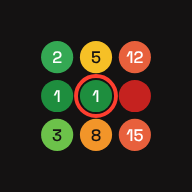
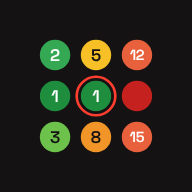
v0.40.1: icona rifatta da geometria (pallini uguali e centrati, anello concentrico con spazio regolare), generatore in strumenti/genera-icone.py
Claude-Session: https://claude.ai/code/session_01DCHnG7iKefnJzXE8xmSRnU

diff --git a/index.html b/index.html
@@ -10,9 +10,9 @@
 <meta name="apple-mobile-web-app-title" content="Visibilità">
 <title>Visibilità locale</title>
 <link rel="manifest" href="manifest.webmanifest">
-<link rel="icon" href="icon-192.png?v=5">
-<link rel="apple-touch-icon" href="apple-touch-icon.png?v=5">
-<link rel="stylesheet" href="stile.css?v=0.40.0">
+<link rel="icon" href="icon-192.png?v=6">
+<link rel="apple-touch-icon" href="apple-touch-icon.png?v=6">
+<link rel="stylesheet" href="stile.css?v=0.40.1">
 </head>
 <body>
 <!-- splash di avvio: logotipo AGENTICA negativo (brand book v2: barra fluo, lettere avorio) su nero; non blocca i tocchi -->
@@ -24,7 +24,7 @@
 </header>
 <main id="vista" class="vista"></main>
 <nav class="tab">
-  <div class="tab-brand"><img class="logo" src="icon-192.png?v=5" alt=""><span>Visibilità locale</span></div>
+  <div class="tab-brand"><img class="logo" src="icon-192.png?v=6" alt=""><span>Visibilità locale</span></div>
   <a href="#oggi" data-t="oggi"><svg viewBox="0 0 24 24"><path d="M4 6h16M4 12h16M4 18h10"/></svg>Oggi<span class="tab-n tab-n-neg" id="nOggi"></span></a>
   <a href="#prospect" data-t="prospect"><svg viewBox="0 0 24 24"><circle cx="9" cy="8" r="3.5"/><path d="M2.5 20c.8-3.6 3.4-5.5 6.5-5.5s5.7 1.9 6.5 5.5M16 4.8a3.5 3.5 0 0 1 0 6.4M18.5 14.8c1.6.8 2.7 2.5 3 5.2"/></svg>Prospect<span class="tab-n" id="nProspect"></span></a>
   <a href="#giro" data-t="giro"><svg viewBox="0 0 24 24"><path d="M12 21s-6.5-5.6-6.5-11a6.5 6.5 0 0 1 13 0c0 5.4-6.5 11-6.5 11z"/><circle cx="12" cy="10" r="2.3"/></svg>Giro</a>
@@ -39,7 +39,7 @@
 <div class="destra-vuota" aria-hidden="true"><span class="dv-p">Scegli un prospect dall'elenco: la scheda si apre qui.</span><span class="dv-z">Scegli una zona dall'elenco: il dettaglio si apre qui.</span></div>
 <div id="foglio" class="foglio" hidden></div>
 <div id="toast" class="toast" hidden></div>
-<script src="logica.js?v=0.40.0"></script>
-<script src="app.js?v=0.40.0"></script>
+<script src="logica.js?v=0.40.1"></script>
+<script src="app.js?v=0.40.1"></script>
 </body>
 </html>

diff --git a/sw.js b/sw.js
@@ -1,5 +1,5 @@
 // Cache dell'app per l'uso offline. I dati (api.github.com) non passano mai da qui.
-const CACHE = 'vl-0.40.0';
+const CACHE = 'vl-0.40.1';
 const FILE = ['./', 'index.html', 'stile.css', 'app.js', 'logica.js', 'manifest.webmanifest', 'icon-192.png', 'icon-512.png', 'apple-touch-icon.png',
   'marchio/agentica-simbolo-piccolo-positivo.svg',
   'fonti/dm-mono-latin-400-normal.woff2', 'fonti/dm-mono-latin-500-normal.woff2', 'fonti/instrument-sans-latin-400-normal.woff2', 'fonti/instrument-sans-latin-500-normal.woff2', 'fonti/instrument-sans-latin-600-normal.woff2', 'fonti/space-grotesk-latin-500-normal.woff2', 'fonti/space-grotesk-latin-600-normal.woff2'];

diff --git a/app.js b/app.js
@@ -1,7 +1,7 @@
 /* Visibilità locale: gestione prospect, giro e stampe. Dati in un repository GitHub privato,
    copia locale in IndexedDB per lavorare offline. Nessun dato vive nel repository dell'app. */
 'use strict';
-const VERSIONE = '0.40.0';
+const VERSIONE = '0.40.1';
 /* versione in fondo allo splash di avvio, senza la «v» (che compare solo nel Profilo) */
 /* ambiente: lo decide l'indirizzo dell'app (…/visibilita-locale-stage/ è stage, il resto è produzione) */
 const AMBIENTE = /-stage\//.test(location.pathname) ? 'stage' : 'prod';

diff --git a/strumenti/genera-icone.py b/strumenti/genera-icone.py
@@ -1,0 +1,61 @@
+"""Genera le icone dell'app (pallini 3x3 con anello sul centro) da un SVG geometrico.
+Uso: python3 strumenti/genera-icone.py   (dalla radice del repo; serve Playwright)"""
+import pathlib, base64
+from playwright.sync_api import sync_playwright
+
+RADICE = pathlib.Path(__file__).resolve().parent.parent
+INK, FLUO = '#141212', '#FE3E2F'
+# (colore, numero, colore testo) per riga, da sinistra a destra
+GRIGLIA = [
+    [('#34A853', '2', '#FFFFFF'), ('#F6C026', '5', INK), ('#E8603C', '12', '#FFFFFF')],
+    [('#1E8E3E', '1', '#FFFFFF'), ('#1E8E3E', '1', '#FFFFFF'), ('#C5221F', '', '#FFFFFF')],
+    [('#6CC24A', '3', INK), ('#F29529', '8', INK), ('#E8603C', '15', '#FFFFFF')],
+]
+PASSO, R = 140, 52            # distanza tra i centri e raggio dei pallini (su 512)
+ANELLO_R, ANELLO_S = 66, 9    # anello: raggio della linea mediana e spessore
+
+def svg(scala=1.0, sfondo=None):
+    c = 256
+    el = []
+    if sfondo:
+        el.append(f'<rect width="512" height="512" fill="{sfondo}"/>')
+    el.append(f'<g transform="translate({c} {c}) scale({scala}) translate({-c} {-c})">')
+    for i, riga in enumerate(GRIGLIA):
+        for j, (col, num, tcol) in enumerate(riga):
+            x, y = c + (j - 1) * PASSO, c + (i - 1) * PASSO
+            if i == 1 and j == 1:
+                el.append(f'<circle cx="{x}" cy="{y}" r="{ANELLO_R}" fill="none" stroke="{FLUO}" stroke-width="{ANELLO_S}"/>')
+            el.append(f'<circle cx="{x}" cy="{y}" r="{R}" fill="{col}"/>')
+            if num:
+                fs = 58 if len(num) == 1 else 50
+                el.append(f'<text x="{x}" y="{y}" font-size="{fs}" fill="{tcol}" text-anchor="middle" '
+                          f'dominant-baseline="central" letter-spacing="{-1 if len(num) > 1 else 0}">{num}</text>')
+    el.append('</g>')
+    return '\n'.join(el)
+
+def pagina(contenuto):
+    font = base64.b64encode((RADICE / 'fonti/space-grotesk-latin-600-normal.woff2').read_bytes()).decode()
+    return f'''<!doctype html><html><head><style>
+@font-face{{font-family:SG;src:url(data:font/woff2;base64,{font}) format("woff2");font-weight:600}}
+html,body{{margin:0;background:transparent}} text{{font-family:SG;font-weight:600}}
+</style></head><body><svg id="s" xmlns="http://www.w3.org/2000/svg" viewBox="0 0 512 512" width="512" height="512">{contenuto}</svg></body></html>'''
+
+ICONE = [  # file, lato, scala, sfondo
+    ('icon-512.png', 512, 1.0, None),
+    ('icon-192.png', 192, 1.0, None),
+    ('icon-maskable-512.png', 512, 0.78, INK),   # contenuto nella zona sicura (cerchio 80%)
+    ('icon-maskable-192.png', 192, 0.78, INK),
+    ('apple-touch-icon.png', 180, 0.94, INK),
+]
+
+if __name__ == '__main__':
+    with sync_playwright() as p:
+        b = p.chromium.launch()
+        for nome, lato, scala, sfondo in ICONE:
+            pg = b.new_page(viewport={'width': 512, 'height': 512}, device_scale_factor=lato / 512)
+            pg.set_content(pagina(svg(scala, sfondo)))
+            pg.evaluate('document.fonts.ready')
+            pg.locator('#s').screenshot(path=str(RADICE / nome), omit_background=sfondo is None)
+            pg.close()
+            print('ok', nome, lato)
+        b.close()
